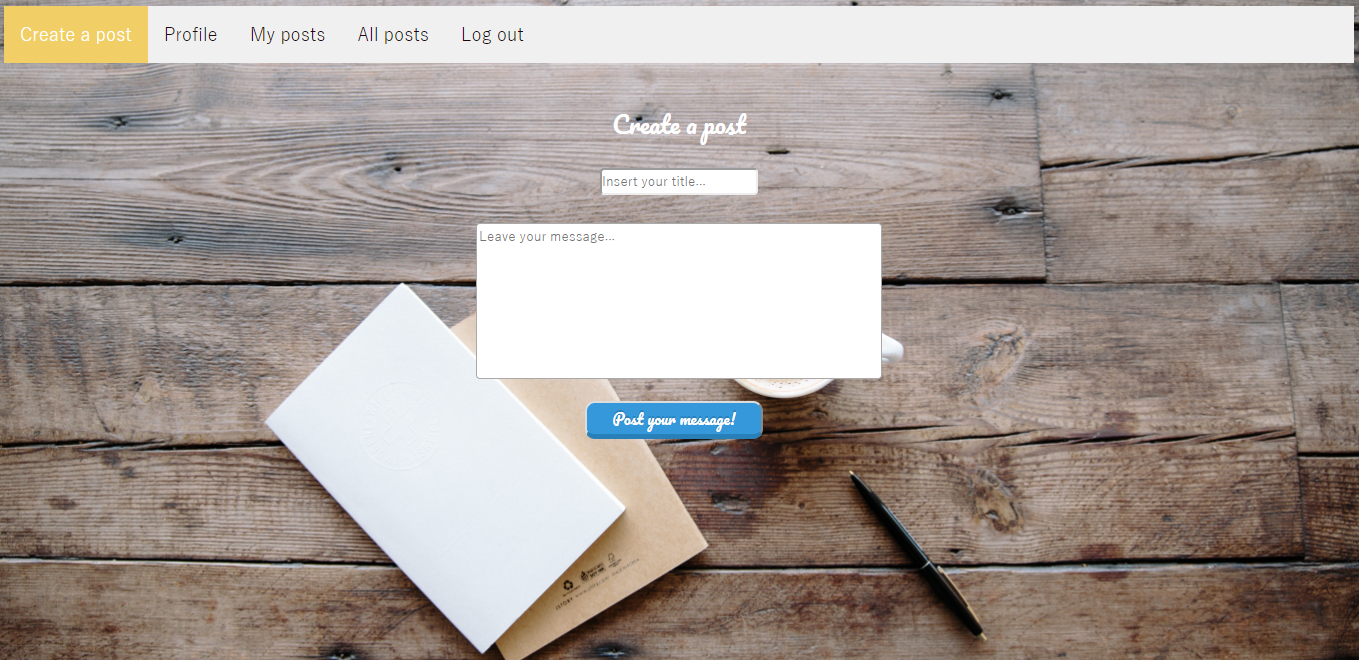
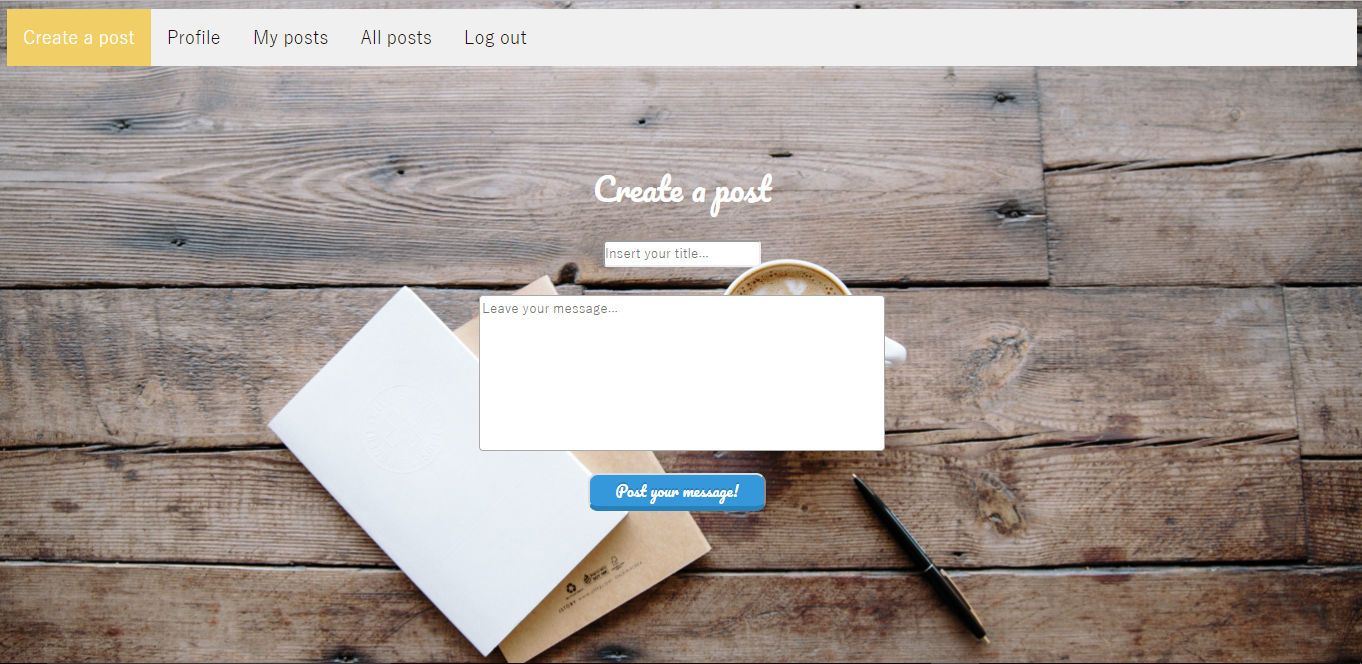
package.json modified

diff --git a/public/css/myposts.css b/public/css/myposts.css
@@ -1,3 +1,9 @@
+@viewport {
+    zoom: 1.0;
+    width: device-width;
+}
+
+
 body {
 	background: url("../img/wooden.jpg") no-repeat center center fixed; 
 	-webkit-background-size: cover;
@@ -7,7 +13,7 @@ body {
 }
 
 
-h1, h2, h4, form {
+h1, h2, h4 {
 	text-align: center;
 	font-family: 'Pacifico', cursive;
 }
@@ -18,7 +24,6 @@ h1 {
 	color: white;
 	font-weight: lighter;
 }
-
 
 
 h4 {
@@ -35,43 +40,12 @@ h3 {
 }
 
 
-input {
-	text-align: center;
-    font-family: 'Yu Gothic'; 
-	border-radius: 4px;
-}
-
 .box {
+	float: center;
     width: 600px;
     border: 2px solid white;
     padding: 25px;
     margin: 100px;
-    margin-left: 300px;
-}
-
-.action-button{
-	position: relative;
-	padding: 2px 26px;
-	margin: 15px 10px 10px 0px;
-	border-radius: 10px;
-	font-family: 'Pacifico', cursive;
-	font-size: 15px;
-	color: #FFF;
-	text-decoration: none;
-}
-
-
-.blue{
-	background-color: #3498DB;
-	border-bottom: 5px solid #2980B9;
-	text-shadow: 0px -2px #2980B9;
-}
-
-
-.action-button:active{
-	transform: translate(0px,5px);
-	-webkit-transform: translate(0px,5px);
-	border-bottom: 1px solid;
 }
 
 

diff --git a/public/css/profile.css b/public/css/profile.css
@@ -1,3 +1,9 @@
+@viewport {
+    zoom: 1.0;
+    width: device-width;
+}
+
+
 body {
 	background: url("../img/together.jpg") no-repeat center center fixed; 
 	-webkit-background-size: cover

diff --git a/public/css/register.css b/public/css/register.css
@@ -1,3 +1,9 @@
+@viewport {
+    zoom: 1.0;
+    width: device-width;
+}
+
+
 body {
 	background: url("../img/together.jpg") no-repeat center center fixed; 
 	-webkit-background-size: cover

diff --git a/public/css/allposts.css b/public/css/allposts.css
@@ -1,3 +1,9 @@
+@viewport {
+    zoom: 1.0;
+    width: device-width;
+}
+
+
 body {
 	background: url("../img/wooden.jpg") no-repeat center center fixed; 
 	-webkit-background-size: cover;

diff --git a/public/css/login.css b/public/css/login.css
@@ -1,3 +1,8 @@
+@viewport {
+    zoom: 1.0;
+    width: device-width;
+}
+
 body {
 	background: url("../img/together.jpg") no-repeat center center fixed; 
 	-webkit-background-size: cover

diff --git a/public/css/index.css b/public/css/index.css
@@ -1,3 +1,8 @@
+@viewport {
+    zoom: 1.0;
+    width: device-width;
+}
+
 body {
 	background: url("../img/index.jpg") no-repeat center center fixed; 
 	-webkit-background-size: cover;

diff --git a/public/css/posts.css b/public/css/posts.css
@@ -1,3 +1,8 @@
+@viewport {
+    zoom: 1.0;
+    width: device-width;
+}
+
 body {
 	background: url("../img/wooden.jpg") no-repeat center center fixed; 
 	-webkit-background-size: cover

diff --git a/app.js b/app.js
@@ -11,6 +11,7 @@ app.use(session({
     resave: true,
     saveUninitialized: false
 }));
+
 app.use(bodyParser.urlencoded({
     extended: true
 }));
